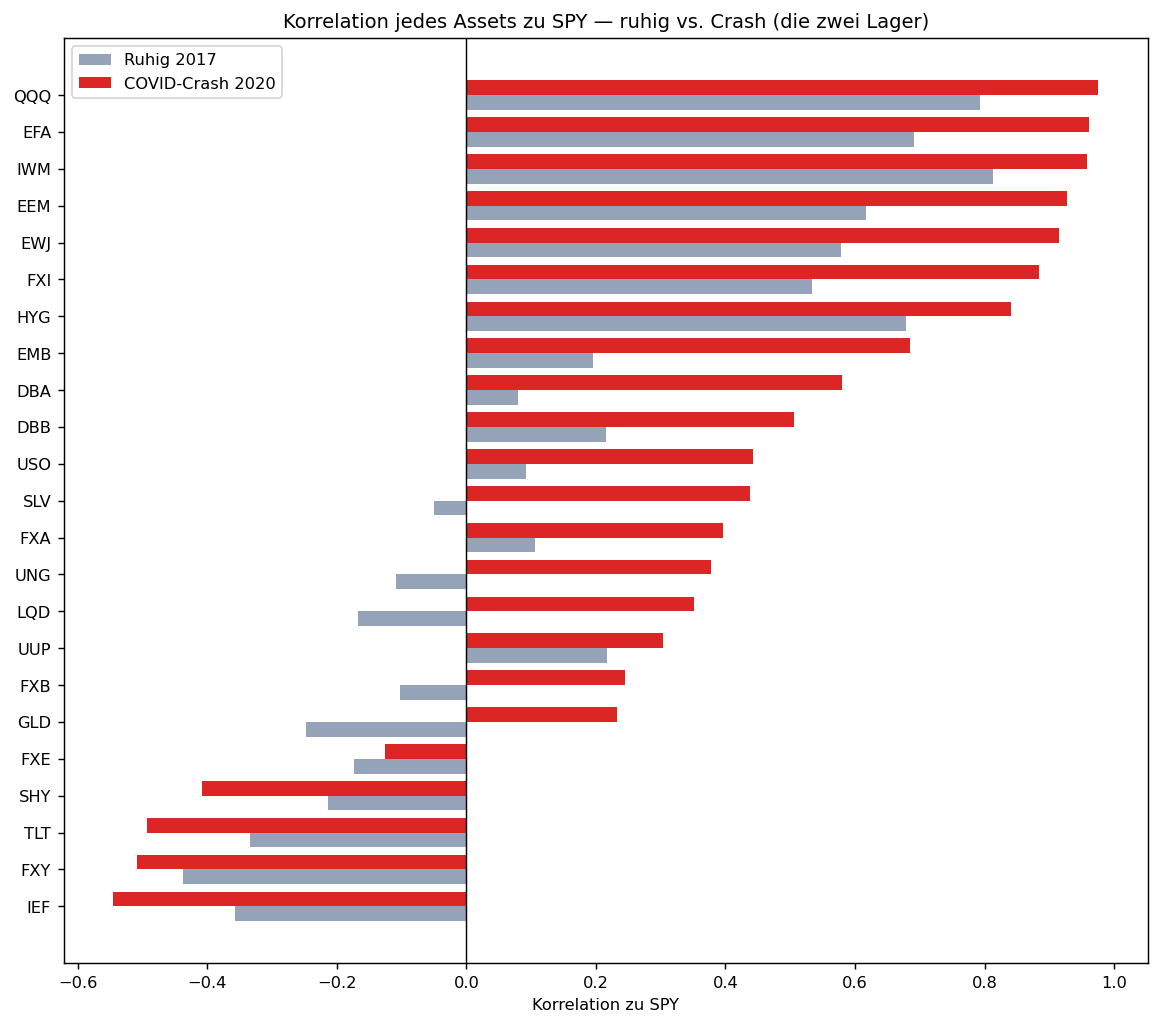
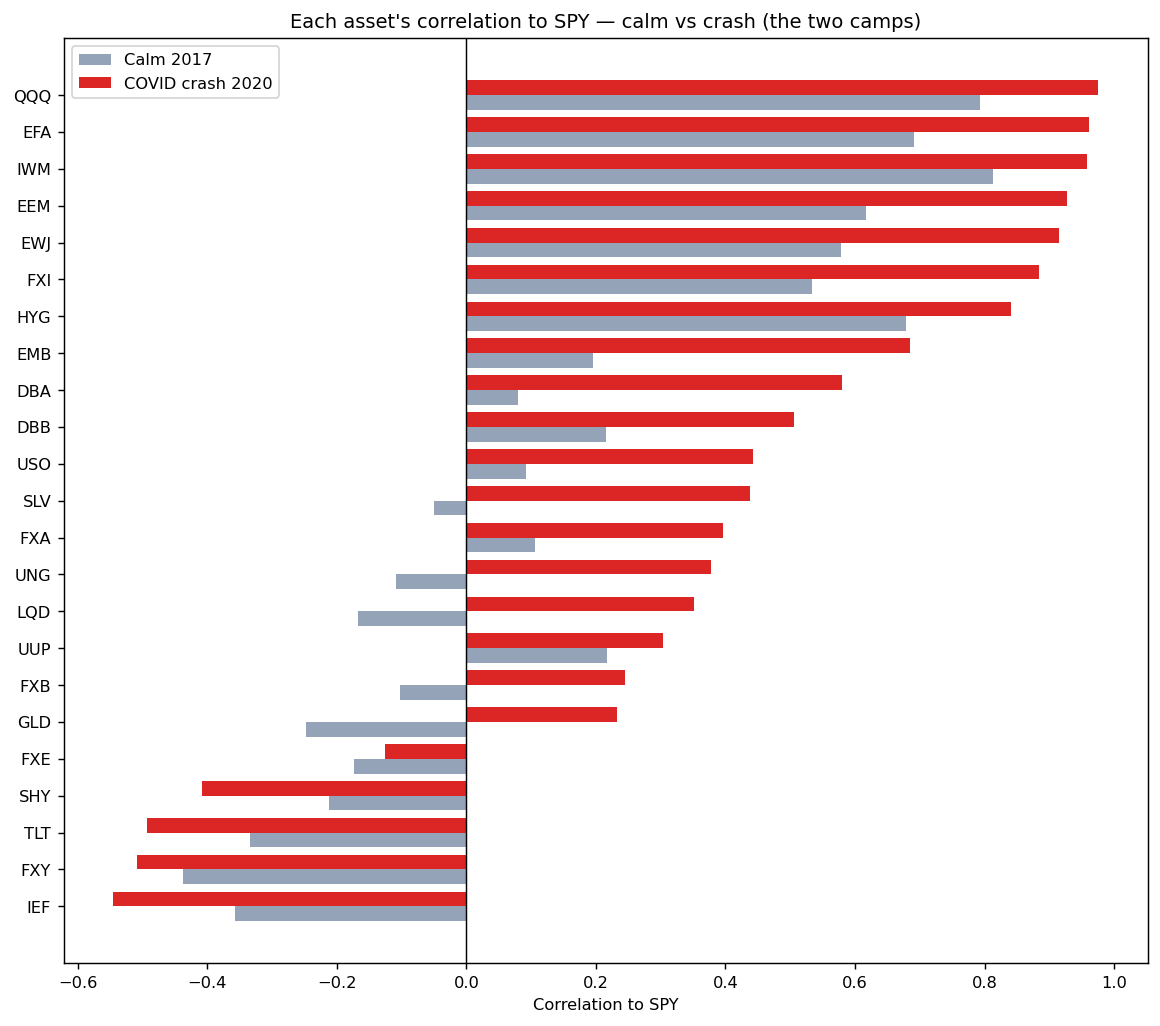
KW31: portfolio methods (frontier/RP), correlation crisis, exposure analysis

diff --git a/research/portfolio_construction/efficient_frontier.py b/research/portfolio_construction/efficient_frontier.py
@@ -1,20 +1,20 @@
 """
-Portfolio-Methoden im OOS-Vergleich — die Leiter des Misstrauens
-================================================================
-KW31 · Portfolio-Konstruktion
+Portfolio methods, out-of-sample — the ladder of distrust
+=========================================================
+KW31 · Portfolio construction
 
-Fünf Methoden, IN-SAMPLE geschätzt, OUT-OF-SAMPLE gehandelt:
-    Markowitz Max-Sharpe   (nutzt mu + Vols + Korrelationen — überfittet)
-    Min-Variance           (Vols + Korrelationen, KEIN mu)
-    Risk Parity voll       (Vols + Korrelationen, gleiche Risikobeiträge)
-    Risk Parity naiv       (NUR Vols, inverse-vol)
-    1/N                    (nichts)
+Five methods, estimated IN-SAMPLE, traded OUT-OF-SAMPLE:
+    Markowitz max-Sharpe   (uses mu + vols + correlations — overfits)
+    Minimum-Variance       (vols + correlations, NO mu)
+    Risk Parity full       (vols + correlations, equal risk contributions)
+    Risk Parity naive      (ONLY vols, inverse-vol)
+    1/N                    (nothing)
 
-Kernlektion: je noisiger die Zutat, der du traust, desto fragiler OOS.
-Rangfolge des Misstrauens: mu >> Korrelationen > Vols.
+Core lesson: the noisier the input you trust, the more fragile out-of-sample.
+Ladder of distrust: mu >> correlations > vols.
 
-Run:  python efficient_frontier.py   ->  druckt Vergleich, schreibt frontier.png
-(Daten live von Yahoo Finance; braucht ../../strategies/tsmom_v3/tsmom_v3.py)
+Run:  python efficient_frontier.py   ->  prints comparison, writes frontier.png
+(Data pulled live from Yahoo Finance; needs ../../strategies/tsmom_v3/tsmom_v3.py)
 """
 
 import os
@@ -39,12 +39,12 @@ def stats(w, r):
 
 def main():
     close, _ = load_data()
-    returns = close.pct_change(fill_method=None).dropna(how="any")   # gemeinsame Stichprobe
+    returns = close.pct_change(fill_method=None).dropna(how="any")   # common sample
     n = returns.shape[1]
     split   = int(len(returns) * 0.70)
     IS, OOS = returns.iloc[:split], returns.iloc[split:]
-    print(f"Assets: {n} | IS {IS.index[0].date()}–{IS.index[-1].date()} | "
-          f"OOS {OOS.index[0].date()}–{OOS.index[-1].date()}")
+    print(f"Assets: {n} | IS {IS.index[0].date()}-{IS.index[-1].date()} | "
+          f"OOS {OOS.index[0].date()}-{OOS.index[-1].date()}")
 
     mu  = IS.mean().values * TD
     cov = IS.cov().values  * TD
@@ -52,12 +52,12 @@ def main():
     one = np.ones(n)
     vol = np.sqrt(np.diag(cov))
 
-    w_tan = inv @ mu;  w_tan /= w_tan.sum()          # Markowitz Max-Sharpe
-    w_mv  = inv @ one; w_mv  /= w_mv.sum()           # Min-Variance
-    w_rpn = (1 / vol); w_rpn /= w_rpn.sum()          # Risk Parity naiv (inverse vol)
+    w_tan = inv @ mu;  w_tan /= w_tan.sum()          # Markowitz max-Sharpe
+    w_mv  = inv @ one; w_mv  /= w_mv.sum()           # Minimum-Variance
+    w_rpn = (1 / vol); w_rpn /= w_rpn.sum()          # Risk Parity naive (inverse vol)
     w_eq  = one / n                                   # 1/N
 
-    def rp_obj(w):                                    # Risk Parity voll: gleiche Risikobeiträge
+    def rp_obj(w):                                    # Risk Parity full: equal risk contributions
         sp = np.sqrt(w @ cov @ w)
         rc = w * (cov @ w) / sp
         return np.sum((rc - sp / n) ** 2)
@@ -65,37 +65,37 @@ def main():
                      bounds=[(0, 1)] * n,
                      constraints={"type": "eq", "fun": lambda w: w.sum() - 1}).x
 
-    methods = [("Markowitz Max-Sharpe", w_tan), ("Min-Variance", w_mv),
-               ("Risk Parity voll", w_rpf), ("Risk Parity naiv", w_rpn), ("1/N", w_eq)]
+    methods = [("Markowitz max-Sharpe", w_tan), ("Min-Variance", w_mv),
+               ("Risk Parity full", w_rpf), ("Risk Parity naive", w_rpn), ("1/N", w_eq)]
 
-    print("\n=== Markowitz-Gewichte (in-sample) — Error-Maximizer-Signatur ===")
+    print("\n=== Markowitz weights (in-sample) — the error-maximizer signature ===")
     print(f"  max {w_tan.max()*100:+.0f}% ({returns.columns[w_tan.argmax()]}) | "
           f"min {w_tan.min()*100:+.0f}% ({returns.columns[w_tan.argmin()]}) | "
-          f"Brutto {np.abs(w_tan).sum()*100:.0f}%")
+          f"gross {np.abs(w_tan).sum()*100:.0f}%")
 
-    print("\n=== OUT-OF-SAMPLE (das ehrliche Urteil) ===")
-    print(f"  {'Portfolio':<22}{'Rendite':>9}{'Vol':>8}{'Sharpe':>9}")
+    print("\n=== OUT-OF-SAMPLE (the honest verdict) ===")
+    print(f"  {'Portfolio':<22}{'Return':>9}{'Vol':>8}{'Sharpe':>9}")
     res = {}
     for name, w in methods:
         m, s, sh = stats(w, OOS); res[name] = sh
         print(f"  {name:<22}{m*100:>8.1f}%{s*100:>7.1f}%{sh:>9.2f}")
 
-    print("\n  Merke: Sharpe ist ein VERHAELTNIS — hoher Sharpe aus niedriger Vol "
-          "(Min-Var) kann ein Cash-Fonds sein. Immer die Rendite dazu lesen.")
+    print("\n  Note: Sharpe is a RATIO — a high Sharpe from low vol (Min-Var) can be a "
+          "cash fund. Always read the return alongside it.")
 
-    # --- Plot: OOS-Sharpe-Balken ---
+    # --- plot: OOS Sharpe bars ---
     plt.rcParams.update({"font.size": 10, "axes.titlesize": 12, "axes.titleweight": "bold"})
     fig, ax = plt.subplots(figsize=(9, 5))
     names = [k for k, _ in methods]
     vals  = [res[k] for k in names]
     cols  = [PURPLE, AMBER, GREY, GREEN2, GREEN]
-    bars  = ax.bar([n.replace(" ", "\n", 1) for n in names], vals, color=cols)
+    bars  = ax.bar([nm.replace(" ", "\n", 1) for nm in names], vals, color=cols)
     ax.axhline(0, color=GREY, lw=.8)
     for b, v in zip(bars, vals):
         ax.annotate(f"{v:.2f}", (b.get_x() + b.get_width()/2, v),
                     textcoords="offset points", xytext=(0, 6 if v >= 0 else -14),
                     ha="center", fontsize=10, fontweight="bold")
-    ax.set_title("OOS — realisierter Sharpe je Methode")
+    ax.set_title("Out-of-sample realised Sharpe by method")
     ax.set_ylabel("Sharpe (OOS)"); ax.grid(alpha=.2, axis="y")
     plt.tight_layout()
     plt.savefig("frontier.png", dpi=130, bbox_inches="tight")

diff --git a/research/portfolio_construction/correlation_crisis.py b/research/portfolio_construction/correlation_crisis.py
@@ -1,19 +1,18 @@
 """
-Korrelationsbruch in Krisen — die zwei Lager
-============================================
-KW31 · Portfolio-Konstruktion
+Correlation breakdown in crises — the two camps
+===============================================
+KW31 · Portfolio construction
 
-Naiv: "im Crash gehen alle Korrelationen auf 1". An einem MULTI-Asset-Buch stimmt
-das so nicht — der Markt spaltet sich in ZWEI Lager, die sich im Durchschnitt
-wegheben:
-    Risiko-Assets (Aktien, Credit, Rohstoffe) -> Korrelation Richtung +1
-    Sichere Häfen (Staatsanleihen, Yen)       -> entkoppeln, Richtung -1
+The naive claim is "in a crash all correlations go to 1". For a MULTI-asset book
+that is not quite true — the market splits into TWO camps that cancel in the average:
+    risk assets (equities, credit, commodities) -> correlation toward +1
+    safe havens (government bonds, yen)          -> decouple, toward -1
 
-Mechanismus: Zwangsverkäufe durch Hebel (Margin Calls) — "Bilanzen, nicht Assets".
-Ein Liquiditäts-Event, kein Fundamental-Event.
+Mechanism: forced deleveraging (margin calls) — "balance sheets, not assets". A
+liquidity event, not a fundamental one.
 
-Run:  python correlation_crisis.py   ->  druckt Zahlen + Listen, schreibt corr_crisis.png
-(Daten live von Yahoo Finance, kein API-Key.)
+Run:  python correlation_crisis.py   ->  prints numbers + lists, writes corr_crisis.png
+(Data pulled live from Yahoo Finance, no API key.)
 """
 
 import numpy as np
@@ -27,9 +26,9 @@ UNIVERSE = ["SPY", "QQQ", "IWM", "EFA", "EEM", "EWJ", "FXI", "TLT", "IEF", "SHY"
 GREY, RED = "#94a3b8", "#dc2626"
 
 PERIODS = {
-    "Ruhig 2017"       : ("2017-01-01", "2017-12-31"),
-    "Finanzkrise 2008" : ("2008-09-01", "2009-03-31"),
-    "COVID-Crash 2020" : ("2020-02-20", "2020-04-15"),
+    "Calm 2017"        : ("2017-01-01", "2017-12-31"),
+    "GFC 2008"         : ("2008-09-01", "2009-03-31"),
+    "COVID crash 2020" : ("2020-02-20", "2020-04-15"),
 }
 
 
@@ -43,36 +42,36 @@ def main():
     close   = yf.download(UNIVERSE, start="2000-01-01", progress=False)["Close"]
     returns = close.pct_change(fill_method=None).dropna(how="any")
 
-    print("Durchschnittliche paarweise Korrelation der 24 Assets:")
+    print("Average pairwise correlation of the 24 assets:")
     for name, (a, b) in PERIODS.items():
         sub = returns.loc[a:b]
-        print(f"  {name:<18} {avg_corr(sub):+.2f}   ({len(sub)} Tage)")
-    print("  -> der Ø springt kaum: die zwei Lager heben sich weg. "
-          "Trau keiner einzelnen Kennzahl.")
+        print(f"  {name:<18} {avg_corr(sub):+.2f}   ({len(sub)} days)")
+    print("  -> the average barely moves: the two camps cancel out. "
+          "Don't trust a single summary number.")
 
-    # --- Korrelation jedes Assets zu SPY: ruhig vs. Crash ---
+    # --- correlation of each asset to SPY: calm vs crash ---
     def corr_to_spy(s, e):
         r = returns.loc[s:e]
         return r.corrwith(r["SPY"]).drop("SPY")
 
-    calm  = corr_to_spy(*PERIODS["Ruhig 2017"])
-    covid = corr_to_spy(*PERIODS["COVID-Crash 2020"])
+    calm  = corr_to_spy(*PERIODS["Calm 2017"])
+    covid = corr_to_spy(*PERIODS["COVID crash 2020"])
     order = covid.sort_values().index
     calm, covid = calm[order], covid[order]
 
-    print("\nAm stärksten ENTKOPPELT im Crash (echte sichere Häfen):")
+    print("\nMost DECOUPLED in the crash (real safe havens):")
     print(covid.sort_values().head(5).round(2).to_string())
-    print("\nAm stärksten MIT dem Markt (Risiko-Cluster):")
+    print("\nMost WITH the market (risk cluster):")
     print(covid.sort_values().tail(5).round(2).to_string())
 
     y = np.arange(len(order))
     plt.rcParams.update({"font.size": 9})
     plt.figure(figsize=(9, 8))
-    plt.barh(y - 0.2, calm.values,  height=0.4, color=GREY, label="Ruhig 2017")
-    plt.barh(y + 0.2, covid.values, height=0.4, color=RED,  label="COVID-Crash 2020")
+    plt.barh(y - 0.2, calm.values,  height=0.4, color=GREY, label="Calm 2017")
+    plt.barh(y + 0.2, covid.values, height=0.4, color=RED,  label="COVID crash 2020")
     plt.axvline(0, color="k", lw=.8)
-    plt.yticks(y, order); plt.xlabel("Korrelation zu SPY"); plt.legend()
-    plt.title("Korrelation jedes Assets zu SPY — ruhig vs. Crash (die zwei Lager)")
+    plt.yticks(y, order); plt.xlabel("Correlation to SPY"); plt.legend()
+    plt.title("Each asset's correlation to SPY — calm vs crash (the two camps)")
     plt.tight_layout()
     plt.savefig("corr_crisis.png", dpi=130, bbox_inches="tight")
     print("\nwrote corr_crisis.png")

diff --git a/research/portfolio_construction/exposure_analysis.py b/research/portfolio_construction/exposure_analysis.py
@@ -1,22 +1,23 @@
 """
-TSMOM-Exposure über die Zeit — der Portfolio-Cap, gemessen statt gebaut
-======================================================================
-KW31 · Portfolio-Konstruktion
+TSMOM exposure over time — the portfolio cap, measured not built
+================================================================
+KW31 · Portfolio construction
 
-Frage: Der 10x-Per-Asset-Cap (v3) verhindert NICHT, dass alle Assets gleichzeitig
-long stehen. Wie einseitig steht das Buch — und braucht es einen Portfolio-Cap?
+Question: the 10x per-asset cap (v3) does NOT stop all assets from being long at
+once. How one-sided is the book — and does it need a portfolio-level cap?
 
-Ergebnis (25 J.): ~77% der Tage netto long, Median ~+17x, Ø 12 long / 7 short —
-strukturell long-lastig, ABER es dreht netto short in Abschwüngen (self-correcting).
+Result (25y): ~77% of days net long, median ~+17x, avg 12 long / 7 short —
+structurally long-tilted, BUT it flips net short in downturns (self-correcting).
 
-ENTSCHEIDUNG: KEIN harter Portfolio-Cap.
-  1. Die 77% netto long SIND die Trend-Prämie -> cappen = Rendite bluten.
-  2. Cap = neuer Parameter -> N rauf -> deflated t runter.
-  3. Restgefahr (plötzlicher Crash while long) deckt Positionsgröße + Kill-Switch ab.
-Also: Risiko-Bewusstseins-Punkt, keine neue Regel. Nicht über-engineeren.
+DECISION: NO hard portfolio cap.
+  1. The 77% net long IS the trend premium -> capping it bleeds return.
+  2. A cap is a new parameter -> raises N -> worsens the deflated t.
+  3. The residual risk (a sudden crash while long) is covered by position sizing
+     + kill-switch.
+So it's a risk-*awareness* item, not a new rule. Don't over-engineer.
 
-Run:  python exposure_analysis.py   ->  druckt Statistik, schreibt exposure.png
-(Daten live von Yahoo Finance, kein API-Key.)
+Run:  python exposure_analysis.py   ->  prints stats, writes exposure.png
+(Data pulled live from Yahoo Finance, no API key.)
 """
 
 import numpy as np
@@ -37,20 +38,20 @@ def main():
     logret = np.log(close / close.shift(1)).dropna(how="all")
     signal = np.sign(close.pct_change(LOOKBACK, fill_method=None))
     vol    = logret.rolling(VOL_WINDOW, min_periods=VOL_WINDOW // 2).std() * np.sqrt(252)
-    pos    = ((TARGET_VOL / vol) * signal).clip(-CAP, CAP)      # v3-Positionen (gecappt)
+    pos    = ((TARGET_VOL / vol) * signal).clip(-CAP, CAP)      # v3 positions (capped)
 
     gross   = pos.abs().sum(axis=1)
     net     = pos.sum(axis=1)
     n_long  = (pos > 0).sum(axis=1)
     n_short = (pos < 0).sum(axis=1)
 
-    print(f"Netto-Exposure: Median {net.median():.1f} | Ø {net.mean():.1f} | "
+    print(f"Net exposure: median {net.median():.1f} | avg {net.mean():.1f} | "
           f"min {net.min():.1f} | max {net.max():.1f}")
-    print(f"Anteil Tage netto LONG : {(net > 0).mean()*100:.0f}%")
-    print(f"Ø long {n_long.mean():.1f}/24 | Ø short {n_short.mean():.1f}/24 | "
-          f"Ø Brutto {gross.mean():.0f}x")
-    print("\n-> strukturell long-lastig, aber self-correcting. KEIN harter Cap "
-          "(siehe Docstring). Restgefahr via Sizing + Kill-Switch.")
+    print(f"Share of days net LONG : {(net > 0).mean()*100:.0f}%")
+    print(f"Avg long {n_long.mean():.1f}/24 | avg short {n_short.mean():.1f}/24 | "
+          f"avg gross {gross.mean():.0f}x")
+    print("\n-> structurally long-tilted but self-correcting. NO hard cap "
+          "(see docstring). Residual risk handled by sizing + kill-switch.")
 
     plt.rcParams.update({"font.size": 10, "axes.titlesize": 11, "axes.titleweight": "bold"})
     fig, ax = plt.subplots(2, 1, figsize=(12, 7), sharex=True)
@@ -60,13 +61,13 @@ def main():
     ax[0].fill_between(net.index, net, 0, where=(net < 0), color=RED, alpha=.25)
     for s, e in CRISES:
         ax[0].axvspan(pd.Timestamp(s), pd.Timestamp(e), color="k", alpha=.12)
-    ax[0].set_title("Netto-Exposure (long − short) — grau = Krisen")
-    ax[0].set_ylabel("Netto-Hebel")
+    ax[0].set_title("Net exposure (long - short) — grey = crises")
+    ax[0].set_ylabel("Net leverage")
 
     ax[1].plot(n_long.index, n_long, color=GREEN, lw=1, label="# long")
     ax[1].plot(n_short.index, n_short, color=RED, lw=1, label="# short")
-    ax[1].set_title("Anzahl long vs. short (von 24)")
-    ax[1].set_ylabel("Anzahl"); ax[1].legend()
+    ax[1].set_title("Number long vs short (of 24)")
+    ax[1].set_ylabel("Count"); ax[1].legend()
     plt.tight_layout()
     plt.savefig("exposure.png", dpi=130, bbox_inches="tight")
     print("wrote exposure.png")

diff --git a/research/portfolio_construction/README.md b/research/portfolio_construction/README.md
@@ -1,42 +1,42 @@
 # Portfolio construction
 
-Zwei Teile: **(A) KW31 — Methoden, Krisen & Exposure** (unten zuerst), und
-**(B) SPY + TSMOM als Beimischung** (der Rest, aus KW29).
+Two parts: **(A) portfolio methods, crises & exposure** (below first), and
+**(B) SPY + TSMOM as a sleeve** (the rest).
 
 ---
 
-## A) KW31 — die Leiter des Misstrauens, empirisch
+## A) The ladder of distrust, empirically
 
-**Kernlektion der Woche:** *Je noisiger die Zutat, der du traust, desto fragiler
-out-of-sample.* Rangfolge des Misstrauens: **erwartete Renditen (μ) ≫ Korrelationen > Vols.**
+**Core lesson:** *the noisier the input you trust, the more fragile out-of-sample.*
+Ladder of distrust: **expected returns (μ) ≫ correlations > vols.**
 
-### `efficient_frontier.py` — fünf Methoden im OOS-Vergleich
-Markowitz Max-Sharpe · Min-Variance · Risk Parity (voll & naiv) · 1/N. In-sample
-geschätzt, out-of-sample gehandelt (24 Assets, IS 2007–2020, OOS 2020–2026).
+### `efficient_frontier.py` — five methods compared out-of-sample
+Markowitz max-Sharpe · Min-Variance · Risk Parity (full & naive) · 1/N. Estimated
+in-sample, traded out-of-sample (24 assets, IS 2007–2020, OOS 2020–2026).
 
-Gemessene OOS-Sharpes: **Min-Variance 2,74 · Markowitz 1,01 · 1/N 0,71 · RP naiv 0,66 · RP voll 0,29.**
-Drei Funde:
-- **„1/N schlägt Markowitz" ist kein Gesetz** — hier lag Markowitz OOS über 1/N. Slogan ≠ Gesetz.
-- **RP voll (0,29) < RP naiv (0,66)** — die volle Version nutzt die (noisigen) Korrelationen und wird *schlechter*. Rangfolge des Misstrauens bestätigt.
-- **Sharpe ohne Rendite täuscht** — Min-Variances 2,74 ist ein Cash-Fonds (2,2% Rendite); 1/N machte 6,6% (3×). Immer Rendite *und* Risiko lesen. → `frontier.png`
+Measured OOS Sharpe: **Min-Variance 2.74 · Markowitz 1.01 · 1/N 0.71 · RP naive 0.66 · RP full 0.29.**
+Three findings:
+- **"1/N beats Markowitz" is not a law** — here Markowitz beat 1/N OOS. DeMiguel holds *on average*, not always.
+- **RP full (0.29) < RP naive (0.66)** — the full version uses the (noisy) correlations and gets *worse*. Ladder of distrust confirmed.
+- **Sharpe without return misleads** — Min-Variance's 2.74 is a cash fund (2.2% return); 1/N returned 6.6% (3×). Always read return *and* risk. → `frontier.png`
 
-### `correlation_crisis.py` — Korrelationsbruch: die zwei Lager
-Naiv „alles auf 1 im Crash" stimmt für ein Multi-Asset-Buch *nicht*: der Ø springt
-kaum (2017 +0,16 → COVID +0,24), weil sich der Markt in zwei Lager spaltet, die sich
-wegheben. Korrelation *zu SPY* zeigt es: **Risiko → +1** (QQQ 0,98 = SPY, HYG 0,85 =
-Junk-Risiko), **Häfen → negativ** (IEF −0,55, Yen −0,51, TLT/SHY). Mechanismus:
-Zwangsverkäufe durch Hebel — „Bilanzen, nicht Assets". → `corr_crisis.png`
+### `correlation_crisis.py` — correlation breakdown: the two camps
+The naive "everything goes to 1 in a crash" does *not* hold for a multi-asset book:
+the average barely moves (2017 +0.16 → COVID +0.24), because the market splits into
+two camps that cancel out. Correlation *to SPY* reveals it: **risk → +1** (QQQ 0.98 =
+SPY, HYG 0.85 = junk-as-risk), **havens → negative** (IEF −0.55, yen −0.51, TLT/SHY).
+Mechanism: forced deleveraging — "balance sheets, not assets". → `corr_crisis.png`
 
-### `exposure_analysis.py` — der Portfolio-Cap, gemessen statt gebaut
-TSMOM-Buch: **77% der Tage netto long**, Ø 12 long / 7 short — aber es dreht netto
-short in Abschwüngen (self-correcting). **Entscheidung: kein harter Portfolio-Cap** —
-der Long-Tilt *ist* die Trend-Prämie (cappen = Rendite bluten), ein Cap erhöht N und
-verschlechtert den deflated t. Restgefahr (plötzlicher Crash while long) deckt
-Positionsgröße + Kill-Switch ab. → `exposure.png`
+### `exposure_analysis.py` — the portfolio cap, measured not built
+TSMOM book: **77% of days net long**, avg 12 long / 7 short — but it flips net short
+in downturns (self-correcting). **Decision: no hard portfolio cap** — the long tilt
+*is* the trend premium (capping bleeds return), a cap raises N and worsens the
+deflated t. The residual risk (a sudden crash while long) is covered by position
+sizing + kill-switch. → `exposure.png`
 
 ---
 
-## B) Risk allocation ≠ capital allocation (SPY + TSMOM, KW29)
+## B) Risk allocation ≠ capital allocation (SPY + TSMOM)
 
 > **The lesson:** putting 30% of *capital* into a low-volatility strategy contributes
 > only ~2.5% of portfolio *risk* — almost nothing. Diversification only pays when the
